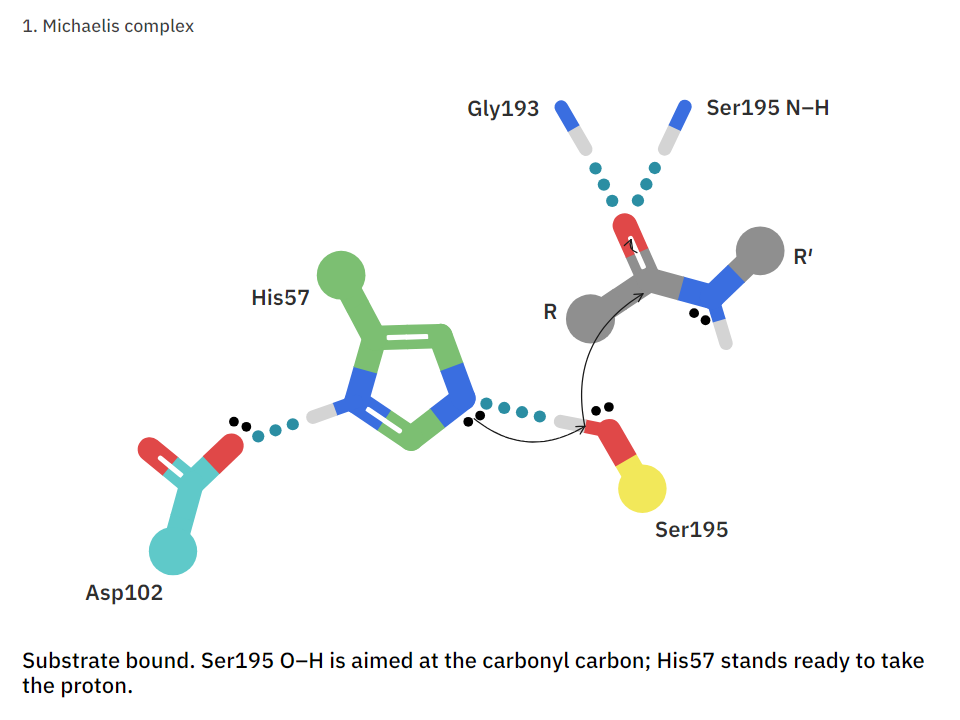
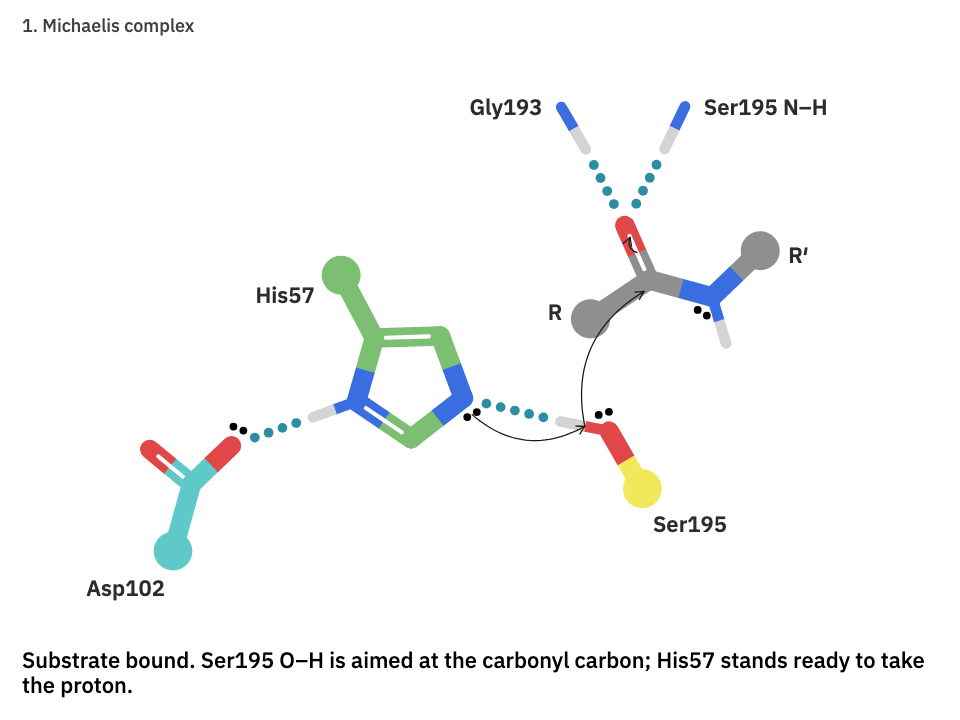
Flat look: sticks 0.2 Å, and an active site's only 1.25 times that
The flat look's sticks were PyMOL's default 0.25 Å, and an active site's 1.9 times that
again: side chains almost an ångström thick beside 1.5 Å bonds, fat in a close-up, and with
no room for a double bond's lanes. PyMOL publication figures draw side chains at 0.2 Å and
set the site apart by its outline and colour, not its bulk. The look's sticks are now 0.2 Å
(stick_radius) and its site 1.25 times that (site.scale), PyMOL's own 0.25 Å; a site's double
bonds read as lanes again, and its ball-and-stick rods are PyMOL's 0.14 Å. Both stay
settable.

The other looks keep the default site scale of 1.9: their sites, framed in a whole protein,
need the bulk to read against hatched or washed ribbons, and their engraved and hatched
sticks the width; at 1.5 they lost the site in a framed view (checked on 3PTB, engraved and
watercolour).

The flat images are now of trypsin with benzamidine (PDB 3PTB, the double bonds as its file
gives them), whole, close up and in ball-and-stick; looks/flat.json is regenerated.

diff --git a/app/src/looks.ts b/app/src/looks.ts
@@ -64,9 +64,11 @@ export const LOOKS: Record<string, Look> = {
     style: { fill: 'flat', cartoonStyle: 'engraved', stickStyle: 'flat', ...lines(0, 0.45), cartoonScale: 1,
       palette: { ...PALETTES['PyMOL flat'], paper: '#ffffff', ink: '#000000', hatch: '#000000', label: '#1a1a1a', charge: '#1a1a1a', arrow: '#1a1a1a',
         helix: '#e8796b', sheet: '#f6c85f', loop: '#eeeeee', hbond: '#2b8ea3', H: '#d4d4d4' },   // (white hydrogens vanish on white paper with no outline)
-      font: 'Plain sans', labelSize: 22, captionSize: 22, stickRadius: 0.25, sphereScale: 0.25, stickHScale: 0.55, lonePairStyle: 'bold',
+      font: 'Plain sans', labelSize: 22, captionSize: 22, stickRadius: 0.2, sphereScale: 0.25, stickHScale: 0.55, lonePairStyle: 'bold',
       ...pen(0, { width: 1.1, hierarchy: 0, alpha: 1 }), shading: 0.55, construction: false,
-      site: { cutaway: false, quiet: 0 } as any,   // every colour as given, nothing seen through: the site reads by its sticks
+      // every colour as given, nothing seen through: the site reads by its sticks, which its outline sets apart, so they
+      // need be only a little larger: PyMOL's own 0.25 Å beside the others' 0.2, as publication figures draw side chains
+      site: { cutaway: false, quiet: 0, scale: 1.25 } as any,
       paper: { grain: 0, wash: 0 } as any, view: { fog: 0, fov: 0 } as any },
   },
   'assembly-surface': {

diff --git a/python/molsketch/_core.js b/python/molsketch/_core.js
@@ -2547,15 +2547,16 @@
         font: "Plain sans",
         labelSize: 22,
         captionSize: 22,
-        stickRadius: 0.25,
+        stickRadius: 0.2,
         sphereScale: 0.25,
         stickHScale: 0.55,
         lonePairStyle: "bold",
         ...pen(0, { width: 1.1, hierarchy: 0, alpha: 1 }),
         shading: 0.55,
         construction: false,
-        site: { cutaway: false, quiet: 0 },
-        // every colour as given, nothing seen through: the site reads by its sticks
+        // every colour as given, nothing seen through: the site reads by its sticks, which its outline sets apart, so they
+        // need be only a little larger: PyMOL's own 0.25 Å beside the others' 0.2, as publication figures draw side chains
+        site: { cutaway: false, quiet: 0, scale: 1.25 },
         paper: { grain: 0, wash: 0 },
         view: { fog: 0, fov: 0 }
       }

diff --git a/tools/make_images.py b/tools/make_images.py
@@ -90,11 +90,15 @@ def maps():
 
 
 def flat():
-    """the Flat look: trypsin with its catalytic triad, whole and close up (outlined sticks on outlined ribbons), and the
-    mechanism's sticks alone, plain"""
-    fig = ms.load(TRYPSIN).look("flat").site("resi 57+102+195")
+    """the Flat look: trypsin with benzamidine (PDB 3PTB) and its catalytic triad, whole and close up (outlined sticks on
+    outlined ribbons, double bonds as the file gives them), the close-up in ball-and-stick, and the mechanism's sticks
+    alone, plain"""
+    fig = ms.fetch("3PTB").look("flat").site("resi 57+102+195 or resn BEN").frame_site((960, 720))
     say(fig.copy().save(IMG / "flat.png", (960, 720)))
-    say(fig.copy().view(zoom=3.4, pan=(-0.03, 0.14)).save(IMG / "flat_site.png", (960, 720)))
+    c = fig.camera; k = 3 / c["zoom"]
+    close = fig.copy().view(zoom=3, pan=(c["pan_x"] * k, c["pan_y"] * k))
+    say(close.copy().save(IMG / "flat_site.png", (960, 720)))
+    say(close.copy().set(mode="ballstick").save(IMG / "flat_ballstick.png", (960, 720)))
     say(ms.scene(MECH).look("flat").save(IMG / "flat_mechanism.png", (960, 720), frame=28))
 
 

diff --git a/python/tests/test_api.py b/python/tests/test_api.py
@@ -239,6 +239,13 @@ def test_flat_ball_and_stick_draws_double_bonds_and_hydrogens():
     for f in fig().frames("keyframes"): assert fig().render(SMALL, frame=f + 20).to_numpy()[..., :3].std() > 5
 
 
+def test_flat_site_sticks_are_slimmer():
+    """the flat look's sticks are 0.2 Å and its site's 1.25 times that (PyMOL's 0.25 Å); the other looks keep theirs"""
+    st = ms.load(EX / "1A8O.pdb").look("flat").style
+    assert st["stick_radius"] == 0.2 and st["site"]["scale"] == 1.25 and st["sphere_scale"] == 0.25
+    assert ms.default_style()["site"]["scale"] == 1.9 and ms.load(EX / "1A8O.pdb").look("engraved").style["site"]["scale"] == 1.9
+
+
 def test_fit_puts_the_drawing_in_the_box():
     """fit(): zoom and pan so the drawing fills the box (its longer side), centred in it"""
     from molsketch._engine import engine

diff --git a/python/molsketch/_figure.py b/python/molsketch/_figure.py
@@ -179,7 +179,8 @@ class Figure:
             fig.site(None)                     # no site
 
         ``cutaway`` (default on) opens the ribbon in front of the site. ``quiet`` (0–1, default 0.35) is how much the
-        rest of the protein fades. ``scale`` (default 1.9) is how much thicker the site's sticks are. Follow with
+        rest of the protein fades. ``scale`` (default 1.9; 1.25 in the flat look) is how much thicker the site's sticks
+        are. Follow with
         ``frame_site()`` to turn the site towards you and ``label_site()`` to label its residues."""
         if ligand:
             r = engine().call("pocket", self._spec(), within)

diff --git a/docs/looks.md b/docs/looks.md
@@ -300,24 +300,24 @@ ms.scene("examples/reactions/pi_star.json").look("textbook").save("pi_star.png",
 
 | | |
 |---|---|
-| ![Trypsin in the Flat look](img/flat.png) | ![Its catalytic triad, close up](img/flat_site.png) |
-
-![The serine hydrolase mechanism's sticks in the Flat look](img/flat_mechanism.png)
+| ![Trypsin with benzamidine in the Flat look](img/flat.png) | ![Its catalytic triad and benzamidine, close up](img/flat_site.png) |
+| ![The close-up in ball-and-stick](img/flat_ballstick.png) | ![The serine hydrolase mechanism's sticks in the Flat look](img/flat_mechanism.png) |
 
 PyMOL under flat light with its outlines on (`ray_trace_mode 1`), the look of many protein-design papers, for when a
 talk or a paper wants a clean illustration rather than a drawing. Ribbons keep MOLSCRIPT's geometry, filled solid: each
 colour on a face, one darker shade of it on a ribbon's far side and a strand's narrow side, and a thin, even line round
-them. Sticks are PyMOL's: solid colour split at each bond's middle, round joints, a ball at Cα. Beside ribbons they are
-outlined as the ribbons are; on their own (a mechanism) they are plain (`stick_outline`). Outlined, an active
-site's sticks need no paper halo to stand off the ribbons behind them, and have none. Hydrogen bonds are evenly
-spaced round dots in a colour of their own.
+them. Sticks are PyMOL's: solid colour split at each bond's middle, round joints, a ball at Cα, 0.2 Å thick as
+publication figures draw side chains. Beside ribbons they are outlined as the ribbons are; on their own (a mechanism)
+they are plain (`stick_outline`). Outlined, an active site's sticks need no paper halo to stand off the ribbons behind
+them, and have none; nor much extra bulk: they are 1.25 times the others, PyMOL's own 0.25 Å. Hydrogen bonds are
+evenly spaced round dots in a colour of their own.
 
 `mode="ballstick"` is PyMOL's ball-and-stick in the same terms: a solid ball on each atom in its colour (the carbons
 coloured as the sticks are, a residue's or chain's own colour included), a quarter of its van der Waals radius
-(`sphere_scale`; a hydrogen's smaller), joined by rods 0.7 times as thick as a stick, each half in its atom's colour,
-outlined with the sticks. A rod leaves its ball where its surface does, so a bond turned toward you comes out of the
-middle of the ball behind it. A double or triple bond is two or three thinner rods side by side; the active site's
-balls and rods are larger by its scale. In an SVG every ball is a circle and every rod a quadrilateral.
+(`sphere_scale`; a hydrogen's smaller), joined by rods 0.7 times as thick as a stick (0.14 Å), each half in its atom's
+colour, outlined with the sticks. A rod leaves its ball where its surface does, so a bond turned toward you comes out
+of the middle of the ball behind it. A double or triple bond is two or three thinner rods side by side; the active
+site's balls and rods are larger by its scale. In an SVG every ball is a circle and every rod a quadrilateral.
 
 A mechanism's chemistry is drawn in the same terms. A bond to a hydrogen is thinner (`stick_h_scale`), so a proton
 reads lighter than the bonds it moves between. A double or triple bond is two or three lanes in the one stick, as
@@ -335,8 +335,9 @@ per ribbon face, half-bond and outline, and the paper one rectangle (or nothing,
 recoloured or rearranged in Illustrator, Inkscape or a figure tool, and laid on a page of its own colour.
 
 ```python
-fig = ms.load("app/public/examples/trypsin_active_site.json").look("flat").site("resi 57+102+195")
+fig = ms.fetch("3PTB").look("flat").site("resi 57+102+195 or resn BEN").frame_site((960, 720))
 fig.save("trypsin.svg", (960, 720))
+fig.set(mode="ballstick")                                   # PyMOL's ball-and-stick
 fig.set(palette={"helix": "#4c78a8", "sheet": "#f2c14e", "loop": "#eeeeee"}, **{"paper.transparent": True})
 ```
 
@@ -353,7 +354,8 @@ fig.set(palette={"helix": "#4c78a8", "sheet": "#f2c14e", "loop": "#eeeeee"}, **{
 | `palette.hbond`, `palette.H` | `#2b8ea3`, `#d4d4d4` | teal hydrogen bonds; hydrogens grey, as white vanishes on white |
 | `stick_h_scale` | `0.55` | bonds to hydrogens thinner |
 | `lone_pair_style` | `"bold"` | lone pairs as bold dots, clear of bonds and the charge |
-| `stick_radius`, `sphere_scale` | `0.25`, `0.25` | PyMOL's stick, and a Cα ball twice as wide; in ball-and-stick, balls a quarter of the van der Waals radius (PyMOL's `sphere_scale`) |
+| `stick_radius`, `sphere_scale` | `0.2`, `0.25` | sticks as publication figures draw side chains, and a Cα ball twice as wide; in ball-and-stick, balls a quarter of the van der Waals radius (PyMOL's `sphere_scale`) |
+| `site.scale` | `1.25` | the site's sticks PyMOL's 0.25 Å: their outline sets them apart, not their bulk |
 | `site.quiet`, `site.cutaway` | `0`, `false` | nothing faded or seen through: the site reads by its sticks |
 | `font`, `label_size` | `"Plain sans"`, `22` | lettered labels |
 | `view.fog`, `view.fov` | `0`, `0` | no fog, an orthographic view |

diff --git a/python/docs/style.md b/python/docs/style.md
@@ -201,7 +201,7 @@ Usually set through [`fig.site`](api.md#figsiteselectionnone--ligandfalse-within
 | `site.sel` | `""` | the site's atoms, as a selection (empty: no site) |
 | `site.cutaway` | `true` | open the ribbon in front of the site (engraved ribbons) |
 | `site.quiet` | `0.35` | how much the rest of the protein fades, 0 to 1 |
-| `site.scale` | `1.9` | how much thicker the site's sticks (and, in ball-and-stick, its balls) are |
+| `site.scale` | `1.9` | how much thicker the site's sticks (and, in ball-and-stick, its balls) are; the Flat look's is 1.25, its outline setting the site apart |
 
 ## Density maps
 

diff --git a/python/docs/api.md b/python/docs/api.md
@@ -244,7 +244,7 @@ fig.site(None)                       # no site
 | `within` | with `ligand=True`, how far from the ligand a residue can be, in Å |
 | `cutaway` | open the ribbon in front of the site (on by default) |
 | `quiet` | how much the rest of the protein fades, 0 to 1 (0.35 by default) |
-| `scale` | how much thicker the site's sticks are than normal sticks (1.9 by default) |
+| `scale` | how much thicker the site's sticks are than normal sticks (1.9 by default; 1.25 in the Flat look) |
 
 #### `fig.frame_site(size=(1920, 1440))`
 
